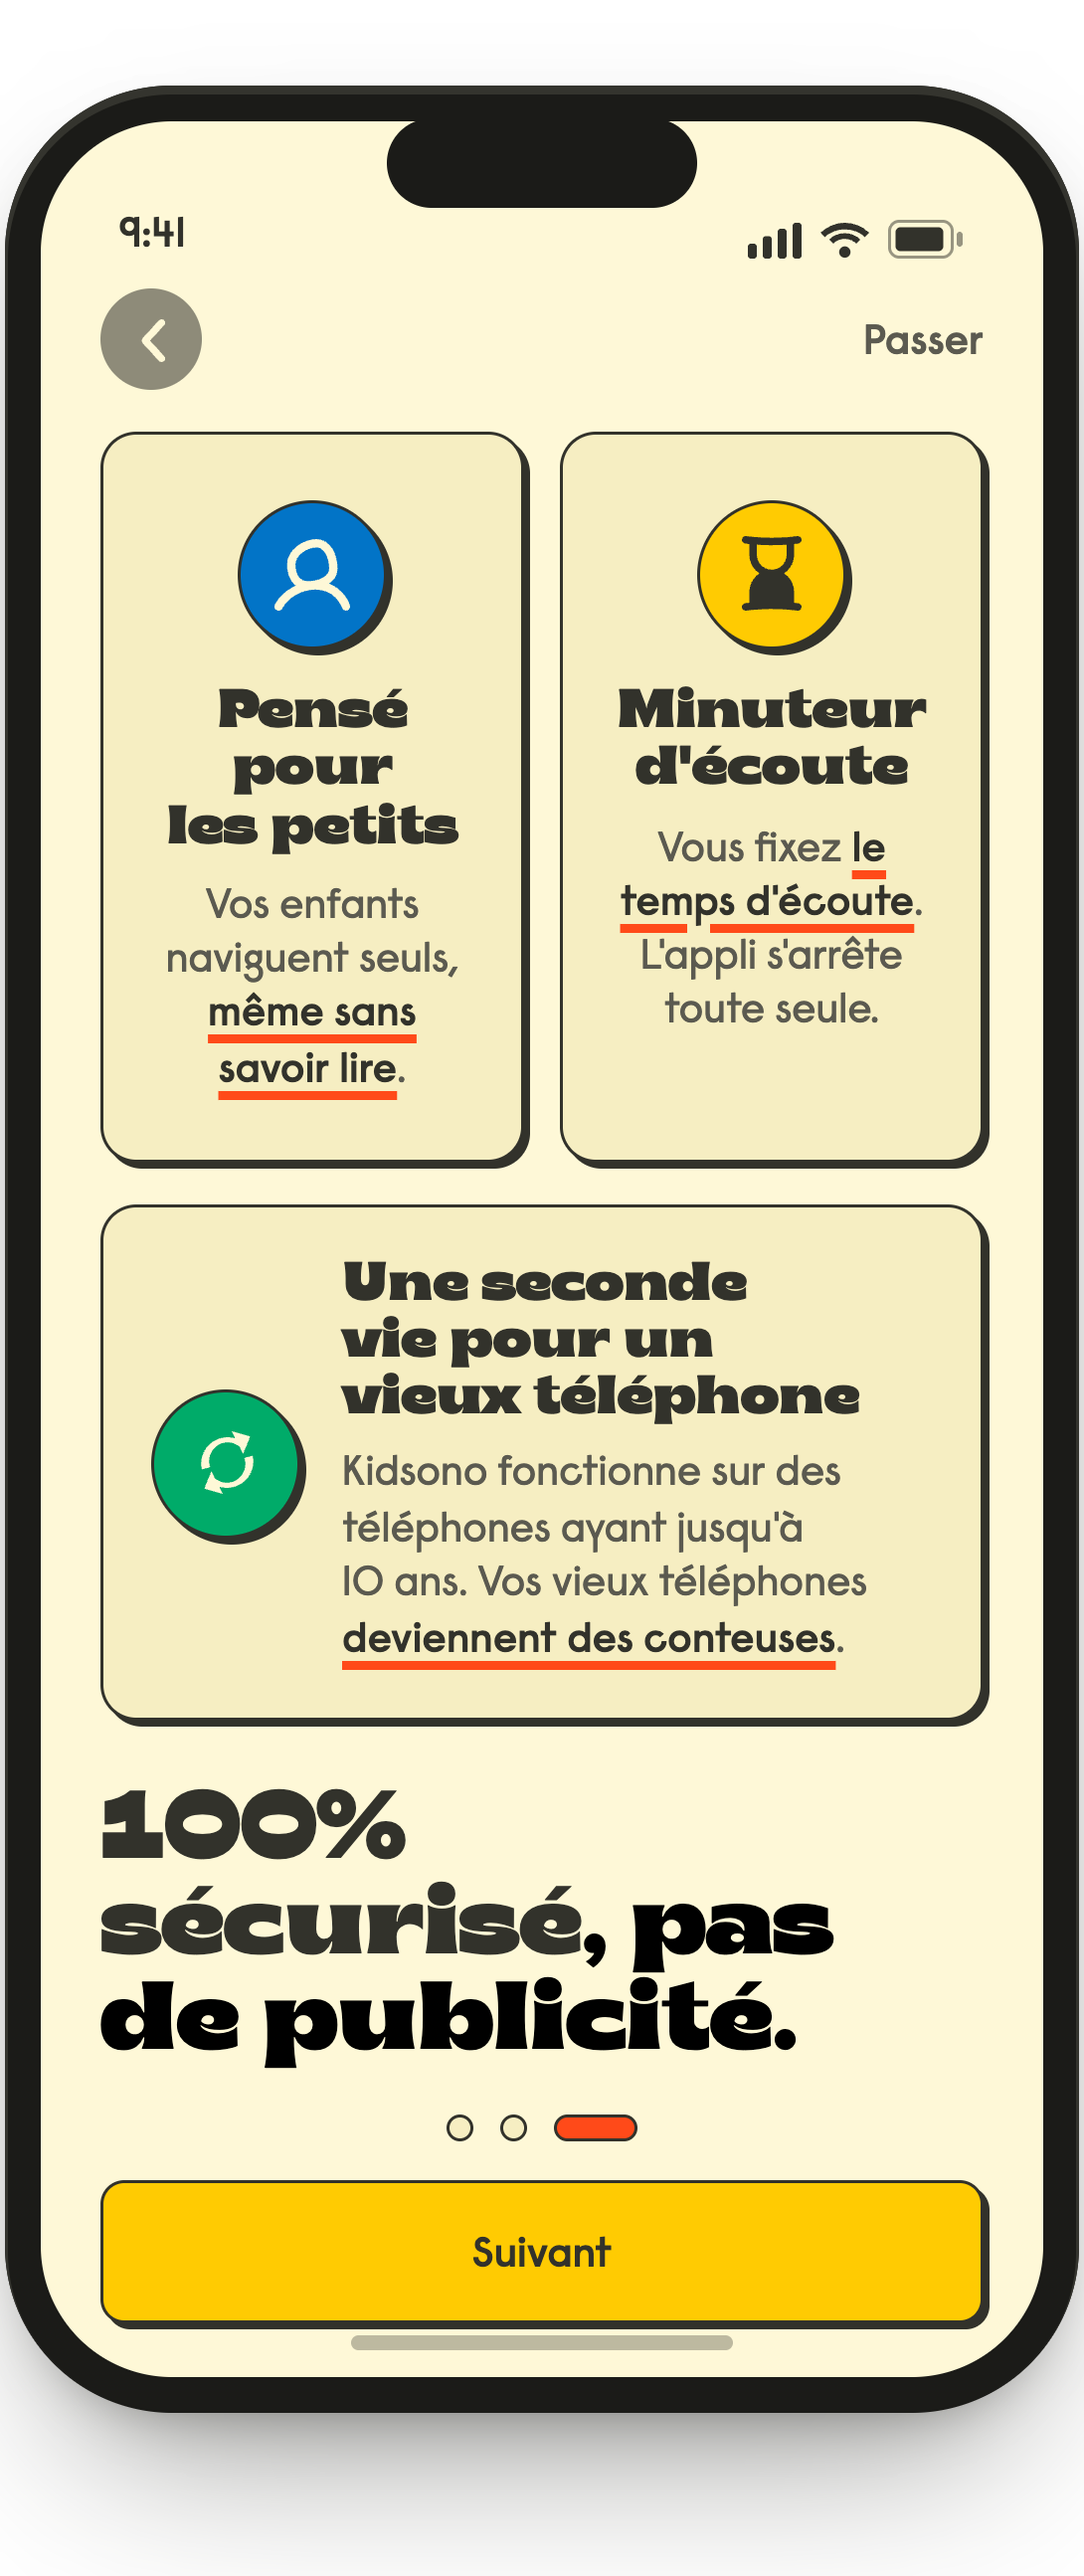
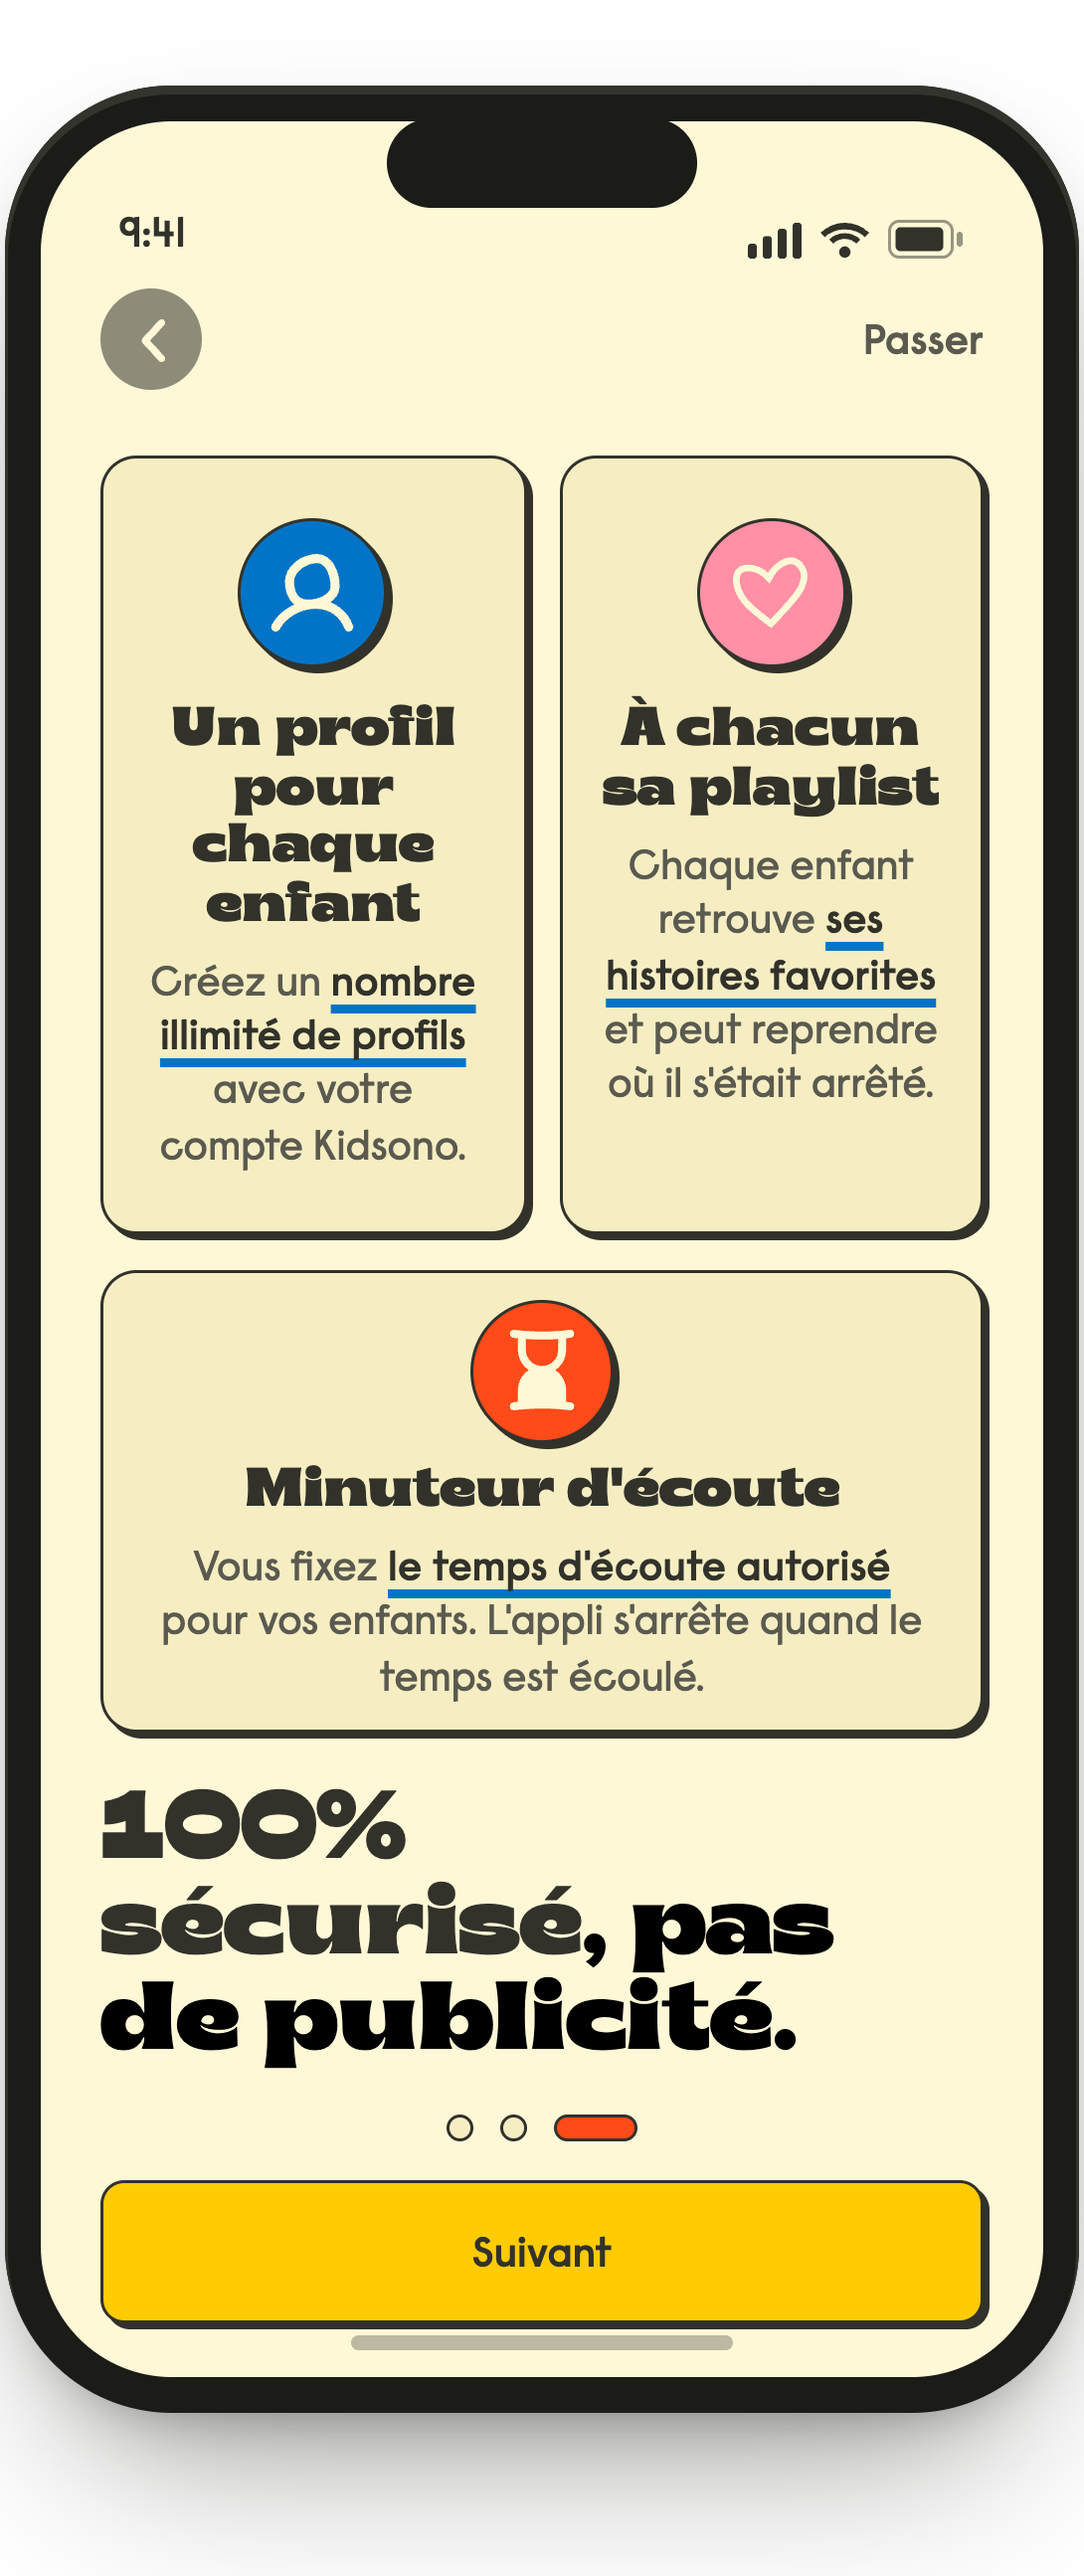
feat(kidsono): securite 2 variations (3 cartes + 4 cartes) + note @Benoist, autorite et paywall valeur maj

Changed region(s): [[0.0936, 0.1544, 0.9358, 0.6795], [0.8734, 0.1544, 0.9046, 0.1853], [0.0936, 0.1544, 0.1248, 0.1853]]

diff --git a/kidsono-analyses-onboarding/presentation-client-ecrans.html b/kidsono-analyses-onboarding/presentation-client-ecrans.html
@@ -118,6 +118,8 @@
   .stbadge{font-size:9.5px;font-weight:800;text-transform:uppercase;letter-spacing:.4px;color:#fff;border-radius:6px;padding:4px 9px;align-self:flex-start;}
   .stbadge.wait{background:#f59e0b;} .stbadge.wip{background:#d946ef;}
   .warn.wip{color:#86198f;background:#fdf4ff;border-color:#f0abfc;}
+  .scard .attn{margin-top:9px;font-size:9.5px;line-height:1.45;color:#4a4636;background:#fffbe0;border:1.5px solid #e6c84a;border-left:4px solid #e6c84a;border-radius:7px;padding:7px 9px;}
+  .scard .attn .who{display:inline-block;font-weight:800;color:#8a6d00;background:#ffe27a;border-radius:4px;padding:1px 6px;margin-bottom:3px;font-size:9px;}
   .scard .infonote{margin-top:9px;font-size:9.5px;line-height:1.4;font-weight:700;color:#3f4756;background:#eef1f6;border:1px solid #d6dde8;border-radius:7px;padding:6px 8px;}
   /* bannière d'identification de la couche Purchasely (à gauche du parcours) */
   .lanebanner{flex:none;align-self:flex-start;width:132px;min-height:104px;box-sizing:border-box;background:#4f46e5;color:#fff;font-weight:800;font-size:11px;letter-spacing:.5px;text-transform:uppercase;border-radius:11px;padding:12px 13px;display:flex;align-items:center;justify-content:center;text-align:center;line-height:1.45;}
@@ -253,7 +255,11 @@
                 <div class="shot"><div class="ph"><b>À venir</b>rendu Claude Design</div><img src="ecrans-finaux-claude-design/valeur-3-securite.png" onerror="this.style.display='none';this.parentNode.querySelector('.ph').style.display='flex'"></div>
                 <div class="sn">05 · Sécurité</div><div class="nm">Sûr & sans pub</div>
                 <ul><li><b>Confiance :</b> « 100% sécurisé, zéro pub » lève l'angoisse n°1 du parent, le quick win de confiance que le marché FR néglige</li><li><b>Déculpabilisation :</b> minuteur, ergonomie petits et mode avion couvrent les usages réels (voiture, avion, vieux mobile recyclé) et désamorcent le sujet du temps d'écran</li></ul>
-                <div class="warn wip"><b>Refonte de cet écran à venir.</b></div>
+                <div class="variation">
+                  <div class="vlab">Variation possible</div>
+                  <div class="shot"><div class="ph"><b>À venir</b>rendu Claude Design</div><img src="ecrans-finaux-claude-design/valeur-3-securite-alt.png" onerror="this.style.display='none';this.parentNode.querySelector('.ph').style.display='flex'"></div>
+                </div>
+                <div class="attn"><span class="who">⚠ @Benoist (fondateur)</span> Pas évident d'appliquer ici les zones de couleur de la version mobile web de la landing page : c'est un design web, pas forcément en accord avec le design system mobile.</div>
               </div>
             </div>
           </div>
